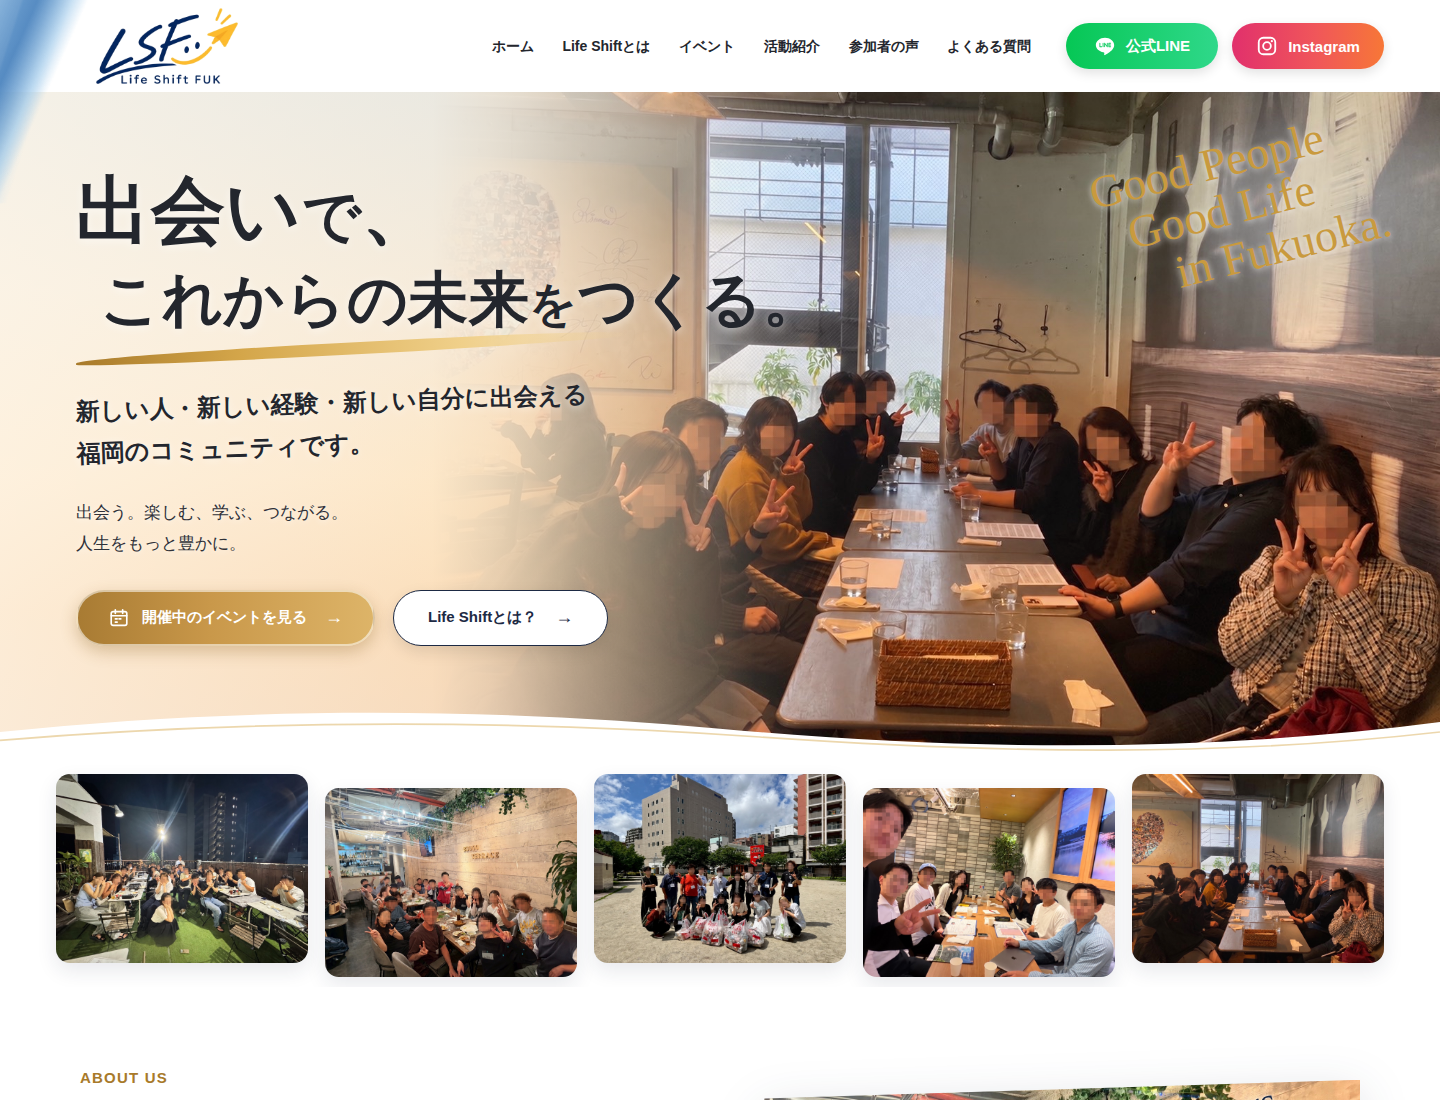
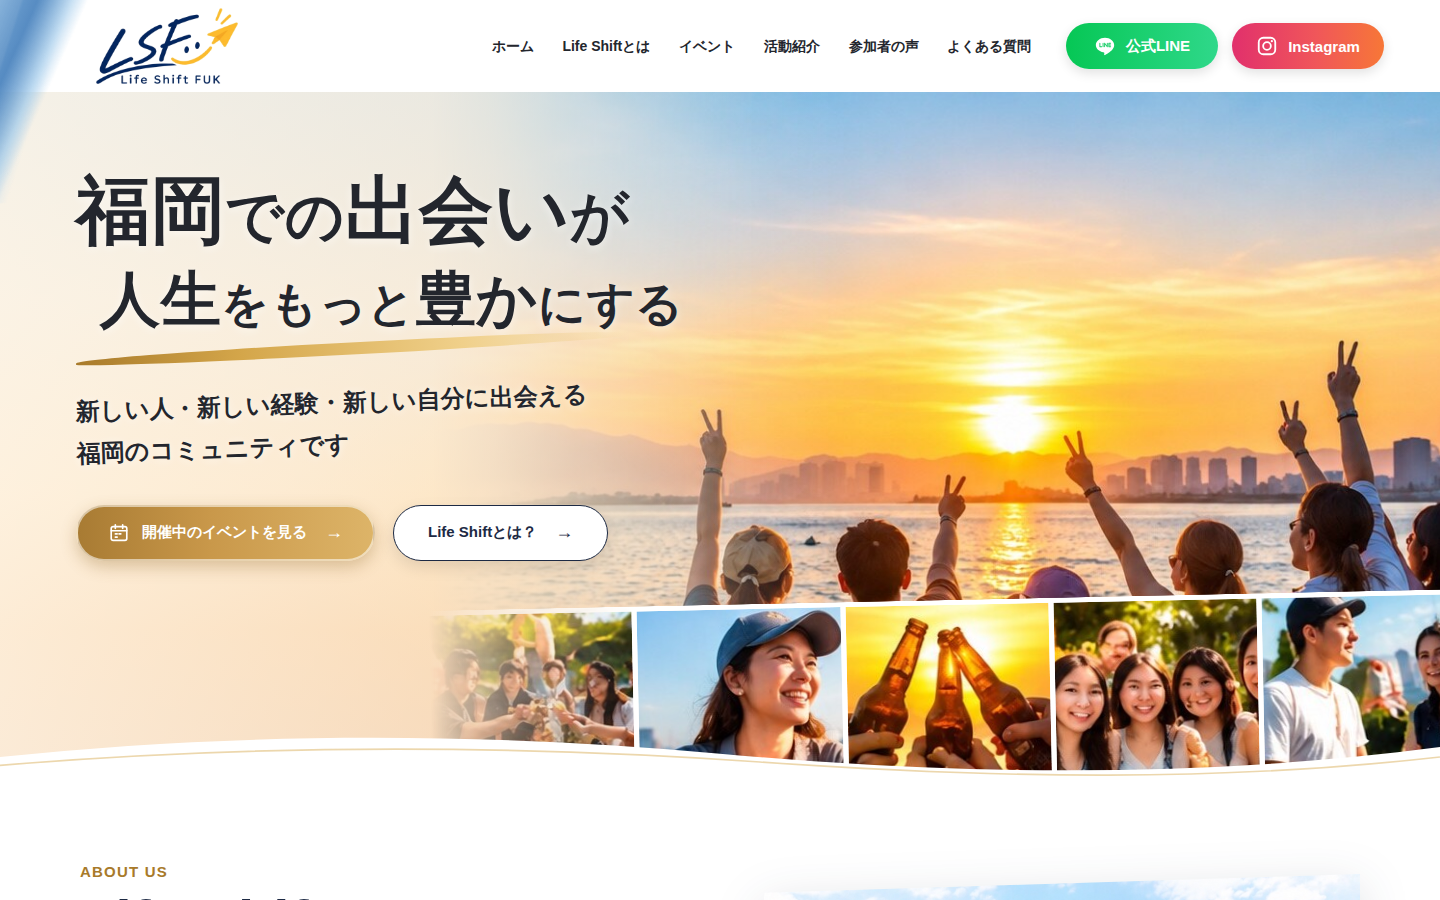
Split the hero image into one main photo and five strip photos
The top section was a single composite image. It is now a main photo
plus a strip of five photos along its bottom edge, each replaceable
on its own from the admin top-page screen (home.hero.image and
home.heroPhotos). The current composite is cut into these six pieces
as starting images under assets/images/hero/.

Claude-Session: https://claude.ai/code/session_011CXnntS8FdrRFtjKfG4bbT

diff --git a/index.html b/index.html
@@ -52,7 +52,8 @@
   <!-- ===== ヒーロー ===== -->
   <section class="hero">
     <div class="hero-photo">
-      <img src="assets/images/hero-community.jpg" data-cms-src="home.hero.image" alt="Life Shift FUK のイベントでピースサインをする参加者たち">
+      <!-- 大きい写真：管理画面「トップページ」→「大きい写真」で差し替え -->
+      <img src="assets/images/hero/hero-main.jpg" data-cms-src="home.hero.image" alt="夕日の海辺でピースサインをする参加者たち">
     </div>
 
     <div class="hero-inner">
@@ -78,23 +79,21 @@
       </div>
     </div>
 
+    <!-- 下に並ぶ写真（5枚）
+         管理画面「トップページ」→「下に並ぶ写真（5枚）」で1枚ずつ差し替えられます。
+         （直接変更する場合は content/site.json の home.heroPhotos） -->
+    <ul class="hero-strip" data-cms-list="strip:home.heroPhotos">
+      <li class="hero-strip-item"><img src="assets/images/hero/hero-photo-01.jpg" alt="バーベキューで交流する参加者"></li>
+      <li class="hero-strip-item"><img src="assets/images/hero/hero-photo-02.jpg" alt="笑顔の参加者"></li>
+      <li class="hero-strip-item"><img src="assets/images/hero/hero-photo-03.jpg" alt="夕日の中で乾杯"></li>
+      <li class="hero-strip-item"><img src="assets/images/hero/hero-photo-04.jpg" alt="みんなで記念撮影"></li>
+      <li class="hero-strip-item"><img src="assets/images/hero/hero-photo-05.jpg" alt="海辺で談笑する参加者"></li>
+    </ul>
+
     <svg class="hero-wave" viewBox="0 0 1440 60" preserveAspectRatio="none" aria-hidden="true">
       <path d="M0 30 C 240 0, 480 0, 720 26 S 1200 56, 1440 18 L1440 60 L0 60 Z" fill="#ffffff"/>
       <path d="M0 40 C 260 14, 520 16, 760 36 S 1220 60, 1440 30" fill="none" stroke="#d4a64a" stroke-opacity=".45" stroke-width="2"/>
     </svg>
-  </section>
-
-  <!-- ===== ファーストビュー下の写真（5枚） =====
-       写真は管理画面「トップページ」→「見出しの下に並ぶ写真」で差し替えられます。
-       （直接変更する場合は content/site.json の home.heroPhotos） -->
-  <section class="photo-strip" aria-label="Life Shift FUK の活動写真">
-    <ul class="photo-strip-list" data-cms-list="strip:home.heroPhotos">
-      <li class="photo-strip-item"><img src="assets/images/events/bbq.jpg" alt="BBQで交流する参加者" loading="lazy"></li>
-      <li class="photo-strip-item"><img src="assets/images/gallery/gallery-01.jpg" alt="食事会の様子" loading="lazy"></li>
-      <li class="photo-strip-item"><img src="assets/images/events/walking.jpg" alt="ウォーキングイベント" loading="lazy"></li>
-      <li class="photo-strip-item"><img src="assets/images/events/money-study.jpg" alt="勉強会の様子" loading="lazy"></li>
-      <li class="photo-strip-item"><img src="assets/images/gallery/gallery-02.jpg" alt="カフェ会の様子" loading="lazy"></li>
-    </ul>
   </section>
 
   <!-- ===== About ===== -->

diff --git a/css/style.css b/css/style.css
@@ -287,44 +287,48 @@ img { display: block; max-width: 100%; }
   height: 50px;
 }
 
-/* ---------- ファーストビュー下の写真（5枚） ---------- */
-.photo-strip {
-  position: relative;
-  padding: 18px var(--gutter) 24px;
-  background: #fff;
+/* ---------- 大きい写真の下に並ぶ写真（5枚） ---------- */
+.hero {
+  --strip-h: clamp(120px, 12.5vw, 200px);
 }
 
-.photo-strip-list {
+.hero-inner { padding-bottom: calc(var(--strip-h) + 40px); }
+
+.hero-strip {
+  position: absolute;
+  z-index: 2;
+  left: 30%;
+  right: -2%;
+  bottom: 12px;
+  height: var(--strip-h);
   display: grid;
-  grid-template-columns: repeat(5, 1fr);
-  gap: clamp(10px, 1.2vw, 18px);
-  max-width: 1360px;
-  margin: 0 auto;
-  padding: 0;
+  grid-auto-flow: column;
+  grid-auto-columns: 1fr;
+  gap: 5px;
+  margin: 0;
+  padding: 5px 0;
   list-style: none;
+  background: #fff;
+  transform: rotate(-1.2deg);
+  transform-origin: right bottom;
+  box-shadow: 0 -4px 18px rgba(80, 50, 20, .12);
+  /* 左端は背景になじませる */
+  -webkit-mask-image: linear-gradient(90deg, transparent 0%, rgba(0, 0, 0, .5) 8%, #000 20%);
+          mask-image: linear-gradient(90deg, transparent 0%, rgba(0, 0, 0, .5) 8%, #000 20%);
 }
 
-.photo-strip-list:empty { display: none; }
+.hero-strip:empty { display: none; }
 
-.photo-strip-item {
+.hero-strip-item {
   overflow: hidden;
-  aspect-ratio: 4 / 3;
-  border-radius: 14px;
-  background: #eef3f7;
-  box-shadow: 0 8px 20px rgba(29, 42, 68, .1);
+  background: #f3e6d4;
 }
 
-/* 交互に少しずらして、リズムのある並びに */
-.photo-strip-item:nth-child(even) { transform: translateY(14px); }
-
-.photo-strip-item img {
+.hero-strip-item img {
   width: 100%;
   height: 100%;
   object-fit: cover;
-  transition: transform .5s ease;
 }
-
-.photo-strip-item:hover img { transform: scale(1.05); }
 
 /* ---------- Responsive ---------- */
 @media (max-width: 1180px) {
@@ -412,19 +416,24 @@ img { display: block; max-width: 100%; }
 
   .hero-buttons { position: relative; z-index: 3; }
 
-  /* スマホでは横にスワイプして見る */
-  .photo-strip { padding: 14px 0 20px; }
-  .photo-strip-list {
+  /* スマホでは写真の下に小さく並べ、横にスワイプして見る */
+  .hero { --strip-h: 92px; min-height: 760px; }
+  .hero-inner { padding-bottom: 90px; }
+  .hero-strip {
+    left: 0;
+    right: 0;
+    bottom: 14px;
     display: flex;
-    gap: 12px;
-    padding: 0 var(--gutter) 14px;
     overflow-x: auto;
     scroll-snap-type: x mandatory;
-    scroll-padding-inline: var(--gutter);
     scrollbar-width: none;
+    transform: rotate(-1.5deg) scale(1.03);
+    transform-origin: center;
+    -webkit-mask-image: none;
+            mask-image: none;
   }
-  .photo-strip-list::-webkit-scrollbar { display: none; }
-  .photo-strip-item { flex: 0 0 62%; scroll-snap-align: start; }
+  .hero-strip::-webkit-scrollbar { display: none; }
+  .hero-strip-item { flex: 0 0 38%; scroll-snap-align: start; }
 }
 
 @media (max-width: 480px) {

diff --git a/admin/admin.js b/admin/admin.js
@@ -189,12 +189,12 @@
             S.text("home.hero.title2", "見出し 2行目", "例：これからの未来［を］つくる。"),
             S.area("home.hero.lead", "見出しの下の文章", BR_HELP, { rows: 2 }),
             S.area("home.hero.sub", "小さい文章", BR_HELP, { rows: 2 }),
-            S.image("home.hero.image", "背景の写真", "横長の写真がおすすめです。人物は右側に表示されます。", { maxSize: 2000 })
+            S.image("home.hero.image", "大きい写真", "横長の写真がおすすめです。写真の右側が大きく見え、左側は文字の背景になじみます。下の端は5枚の写真で隠れます。", { maxSize: 2000 })
           ]
         },
         {
-          title: "見出しの下に並ぶ写真（5枚）",
-          note: "左から順に表示されます。横長の写真がおすすめです。",
+          title: "大きい写真の下に並ぶ写真（5枚）",
+          note: "大きい写真の下の帯に、左から順に表示されます。1番目は左端が背景になじむように薄く表示されます。横長の写真がおすすめです。",
           fields: [0, 1, 2, 3, 4].flatMap((i) => [
             S.image(`home.heroPhotos.${i}.image`, `${i + 1}枚目の写真`, null, { maxSize: 1200 }),
             S.text(`home.heroPhotos.${i}.alt`, `${i + 1}枚目の説明（任意）`, "例：BBQで乾杯する様子")

diff --git a/js/main.js b/js/main.js
@@ -96,10 +96,10 @@
         `<li><img src="${esc(src(g.image))}" alt="${esc(g.alt || "ギャラリー写真" + (i + 1))}" loading="lazy"></li>`).join("");
     },
 
-    // ファーストビュー下に横並びする写真（最大5枚）
+    // ファーストビューの下に並ぶ写真（最大5枚）
     strip(items) {
       return items.filter((p) => p && p.image).slice(0, 5).map((p) =>
-        `<li class="photo-strip-item"><img src="${esc(src(p.image))}" alt="${esc(p.alt || "")}" loading="lazy"></li>`).join("");
+        `<li class="hero-strip-item"><img src="${esc(src(p.image))}" alt="${esc(p.alt || "")}"></li>`).join("");
     },
 
     voices(items) {
